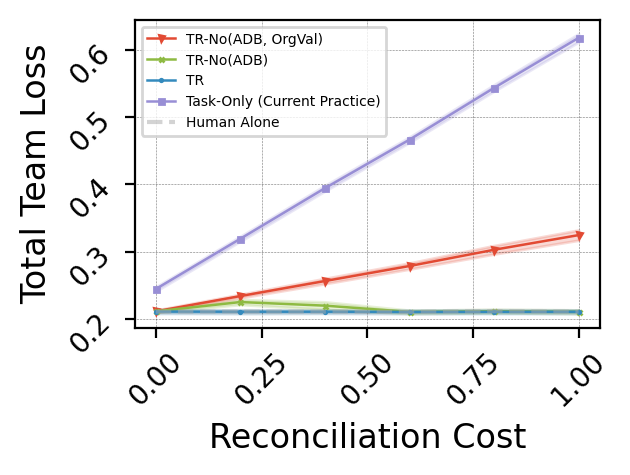
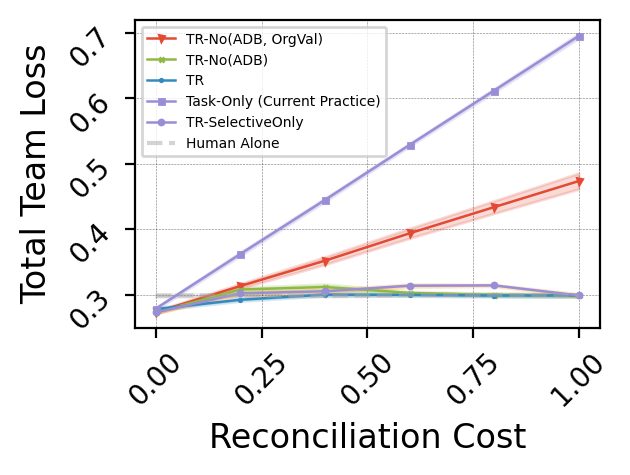
processing results file

Changed region(s): [[0.0905, 0.1179, 0.9349, 0.7368], [0.0905, 0.0589, 0.2111, 0.1768], [0.8746, 0.0589, 0.9349, 0.1179]]

diff --git a/src/run_analyses.py b/src/run_analyses.py
@@ -326,307 +326,31 @@ def make_results(dataset, whichtype, num_runs, costs, validation=False):
     return results_means, results_stderrs, results
 
 
-
 costs = [0.0, 0.2, 0.4, 0.6, 0.8, 1.0]
 num_runs = 5
-dataset = 'fico'
+datasets = ['heart_disease', 'fico', 'hr']
+names = ['biased', 'biased_dec_bias', 'offset_01']
 
-'''
-name = 'offset_01'
-if os.path.isfile(f'results/{dataset}/offset_01_rs.pkl'):
-    with open(f'results/{dataset}/offset_01_rs.pkl', 'rb') as f:
-        of1_rs = pickle.load(f)
-    with open(f'results/{dataset}/offset_01_means.pkl', 'rb') as f:
-        of1_means = pickle.load(f)
-    with open(f'results/{dataset}/offset_01_std.pkl', 'rb') as f:
-        of1_std = pickle.load(f)
-else:
-    of1_means, of1_std, of1_rs = make_results(dataset, name, num_runs, costs, False)
-    #pickle and write means, std, and rs to file
-    with open(f'results/{dataset}/offset_01_means.pkl', 'wb') as f:
-        pickle.dump(of1_means, f)
-    with open(f'results/{dataset}/offset_01_std.pkl', 'wb') as f:
-        pickle.dump(of1_std, f)
-    with open(f'results/{dataset}/offset_01_rs.pkl', 'wb') as f:
-        pickle.dump(of1_rs, f)
-
-name = 'offset_02'
-if os.path.isfile(f'results/{dataset}/offset_02_rs.pkl'):
-    with open(f'results/{dataset}/offset_02_rs.pkl', 'rb') as f:
-        of2_rs = pickle.load(f)
-    with open(f'results/{dataset}/offset_02_means.pkl', 'rb') as f:
-        of2_means = pickle.load(f)
-    with open(f'results/{dataset}/offset_02_std.pkl', 'rb') as f:
-        of2_std = pickle.load(f)
-else:
-    of2_means, of2_std, of2_rs = make_results(dataset, name, num_runs, costs, False)
-    #pickle and write means, std, and rs to file
-    with open(f'results/{dataset}/offset_02_means.pkl', 'wb') as f:
-        pickle.dump(of2_means, f)
-    with open(f'results/{dataset}/offset_02_std.pkl', 'wb') as f:
-        pickle.dump(of2_std, f)
-    with open(f'results/{dataset}/offset_02_rs.pkl', 'wb') as f:
-        pickle.dump(of2_rs, f)
-
-
-#val_r_means, val_r_stderrs, val_rs = make_results('heart_disease', name, num_runs, costs, True)
-#misr_means, misr_stderrs, misrs = make_results(dataset, name, num_runs, costs, False)
-#val_r_means, val_r_stderrs, val_rs = make_results('heart_disease', name, num_runs, costs, True)
-
-
-'''
-name = 'biased'
-if os.path.isfile(f'results/{dataset}/{name}_rs.pkl') and False:
-    with open(f'results/{dataset}/{name}_rs.pkl', 'rb') as f:
-        bia_rs = pickle.load(f)
-    with open(f'results/{dataset}/{name}_means.pkl', 'rb') as f:
-        bia_means = pickle.load(f)
-    with open(f'results/{dataset}/{name}_std.pkl', 'rb') as f:
-        bia_std = pickle.load(f)
-else:
-    bia_means, bia_std, bia_rs = make_results(dataset, name, num_runs, costs, validation=False)
-    #pickle and write means, std, and rs to file
-    with open(f'results/{dataset}/{name}_means.pkl', 'wb') as f:
-        pickle.dump(bia_means, f)
-    with open(f'results/{dataset}/{name}_std.pkl', 'wb') as f:
-        pickle.dump(bia_std, f)
-    with open(f'results/{dataset}/{name}_rs.pkl', 'wb') as f:
-        pickle.dump(bia_rs, f)
-'''
-name = 'offset_01'
-
-if os.path.isfile(f'results/{dataset}/val_offset_01_rs.pkl'):
-    with open(f'results/{dataset}/val_offset_01_rs.pkl', 'rb') as f:
-        val_of1_rs = pickle.load(f)
-    with open(f'results/{dataset}/val_offset_01_means.pkl', 'rb') as f:
-        val_of1_means = pickle.load(f)
-    with open(f'results/{dataset}/val_offset_01_std.pkl', 'rb') as f:
-        val_of1_std = pickle.load(f)
-else:
-    val_of1_means, val_of1_std, val_of1_rs = make_results(dataset, name, num_runs, costs, True)
-    #pickle and write means, std, and rs to file
-    with open(f'results/{dataset}/val_offset_01_means.pkl', 'wb') as f:
-        pickle.dump(val_of1_means, f)
-    with open(f'results/{dataset}/val_offset_01_std.pkl', 'wb') as f:
-        pickle.dump(val_of1_std, f)
-    with open(f'results/{dataset}/val_offset_01_rs.pkl', 'wb') as f:
-        pickle.dump(val_of1_rs, f)
-
-name = 'offset_02'
-if os.path.isfile(f'results/{dataset}/val_offset_02_rs.pkl'):
-    with open(f'results/{dataset}/val_offset_02_rs.pkl', 'rb') as f:
-        val_of2_rs = pickle.load(f)
-    with open(f'results/{dataset}/val_offset_02_means.pkl', 'rb') as f:
-        val_of2_means = pickle.load(f)
-    with open(f'results/{dataset}/val_offset_02_std.pkl', 'rb') as f:
-        val_of2_std = pickle.load(f)
-else:
-    val_of2_means, val_of2_std, val_of2_rs = make_results(dataset, name, num_runs, costs, True)
-    #pickle and write means, std, and rs to file
-    with open(f'results/{dataset}/val_offset_02_means.pkl', 'wb') as f:
-        pickle.dump(val_of2_means, f)
-    with open(f'results/{dataset}/val_offset_02_std.pkl', 'wb') as f:
-        pickle.dump(val_of2_std, f)
-    with open(f'results/{dataset}/val_offset_02_rs.pkl', 'wb') as f:
-        pickle.dump(val_of2_rs, f)
-
-
-#val_r_means, val_r_stderrs, val_rs = make_results('heart_disease', name, num_runs, costs, True)
-#misr_means, misr_stderrs, misrs = make_results(dataset, name, num_runs, costs, False)
-#val_r_means, val_r_stderrs, val_rs = make_results('heart_disease', name, num_runs, costs, True)
-
-
-'''
-name = 'biased'
-if os.path.isfile(f'results/{dataset}/val_biased_rs.pkl') and False:
-    with open(f'results/{dataset}/val_biased_rs.pkl', 'rb') as f:
-        val_bia_rs = pickle.load(f)
-    with open(f'results/{dataset}/val_biased_means.pkl', 'rb') as f:
-        val_bia_means = pickle.load(f)
-    with open(f'results/{dataset}/val_biased_std.pkl', 'rb') as f:
-        val_bia_std = pickle.load(f)
-else:
-    val_bia_means, val_bia_std, val_bia_rs = make_results(dataset, name, num_runs, costs, validation=True)
-    #pickle and write means, std, and rs to file
-    with open(f'results/{dataset}/val_biased_means.pkl', 'wb') as f:
-        pickle.dump(val_bia_means, f)
-    with open(f'results/{dataset}/val_biased_std.pkl', 'wb') as f:
-        pickle.dump(val_bia_std, f)
-    with open(f'results/{dataset}/val_biased_rs.pkl', 'wb') as f:
-        pickle.dump(val_bia_rs, f)
-
-
-def make_TL_v_cost_plot(results_means, results_stderrs, name):
-    fig = plt.figure(figsize=(3, 2), dpi=200)
-    color_dict = {'TR': '#348ABD', 'HYRS': '#E24A33', 'BRS':'#988ED5', 'Human': 'darkgray', 'HYRSRecon': '#8EBA42', 'BRSselect': '#FF7F00'}  #75c361
-    plt.plot(results_means.index[0:6], results_means['hyrs_norecon_objective'].iloc[0:6], marker = 'v', c=color_dict['HYRS'], label = 'TR-No(ADB, OrgVal)', markersize=1.8, linewidth=0.9)
-    plt.plot(results_means.index[0:6], results_means['hyrs_team_objective'].iloc[0:6], marker = 'x', c=color_dict['HYRSRecon'], label = 'TR-No(ADB)', markersize=1.8, linewidth=0.9)
-    plt.plot(results_means.index[0:6], results_means['tr_team_w_reset_objective'].iloc[0:6], marker = '.', c=color_dict['TR'], label='TR', markersize=1.8, linewidth=0.9)
-    plt.plot(results_means.index[0:6], results_means['brs_team_objective'].iloc[0:6], marker = 's', c=color_dict['BRS'], label='Task-Only (Current Practice)', markersize=1.8, linewidth=0.9)
-    plt.plot(results_means.index[0:6], results_means['brs_team_w_reset_objective'].iloc[0:6], marker = 'o', c=color_dict['BRS'], label='TR-SelectiveOnly', markersize=1.8, linewidth=0.9)
-    
-    plt.plot(results_means.index[0:6], results_means['human_decision_loss'].iloc[0:6], c = color_dict['Human'], markersize=1, label='Human Alone', ls='--', alpha=0.5)
-    
-    plt.fill_between(results_means.index[0:6], 
-                results_means['human_decision_loss'].iloc[0:6]-(results_stderrs['human_decision_loss'].iloc[0:6]),
-                results_means['human_decision_loss'].iloc[0:6]+(results_stderrs['human_decision_loss'].iloc[0:6]) ,
-                color=color_dict['Human'], alpha=0.2)
-    plt.fill_between(results_means.index[0:6], 
-                results_means['hyrs_team_objective'].iloc[0:6]-(results_stderrs['hyrs_team_objective'].iloc[0:6]),
-                results_means['hyrs_team_objective'].iloc[0:6]+(results_stderrs['hyrs_team_objective'].iloc[0:6]) ,
-                color=color_dict['HYRSRecon'], alpha=0.2)
-    
-    plt.fill_between(results_means.index[0:6], 
-                results_means['hyrs_norecon_objective'].iloc[0:6]-(results_stderrs['hyrs_norecon_objective'].iloc[0:6]),
-                results_means['hyrs_norecon_objective'].iloc[0:6]+(results_stderrs['hyrs_norecon_objective'].iloc[0:6]) ,
-                color=color_dict['HYRS'], alpha=0.2)
-    plt.fill_between(results_means.index[0:6], 
-                results_means['brs_team_objective'].iloc[0:6]-(results_stderrs['brs_team_objective'].iloc[0:6]),
-                results_means['brs_team_objective'].iloc[0:6]+(results_stderrs['brs_team_objective'].iloc[0:6]) ,
-                color=color_dict['BRS'], alpha=0.2)
-    plt.fill_between(results_means.index[0:6], 
-                results_means['tr_team_w_reset_objective'].iloc[0:6]-(results_stderrs['tr_team_w_reset_objective'].iloc[0:6]),
-                results_means['tr_team_w_reset_objective'].iloc[0:6]+(results_stderrs['tr_team_w_reset_objective'].iloc[0:6]),
-                color=color_dict['TR'], alpha=0.2)
-    plt.fill_between(results_means.iloc[0:6].index,
-                     results_means['brs_team_w_reset_objective'].iloc[0:6]-(results_stderrs['brs_team_w_reset_objective'].iloc[0:6]),
-                results_means['brs_team_w_reset_objective'].iloc[0:6]+(results_stderrs['brs_team_w_reset_objective'].iloc[0:6]),
-                color=color_dict['BRSselect'], alpha=0.2)
-   
-    plt.xlabel('Reconciliation Cost', fontsize=12)
-    plt.ylabel('Total Team Loss', fontsize=12)
-    plt.tick_params(labelrotation=45, labelsize=10)
-    #plt.title('{} Setting'.format(setting), fontsize=15)
-    #plt.title('Income Prediction (Adult Dataset)', fontsize=15)
-    plt.legend(prop={'size': 5})
-    plt.grid('on', linestyle='dotted', linewidth=0.2, color='black')
-
-    fig.savefig(f'results/{dataset}/plots/TL_{dataset}_{name}.png', bbox_inches='tight')
-    #plt.show()
-
-    #plt.clf()
-
-
-def make_contradictions_v_decisionloss_plot(results_means, results_stderrs, name):
-    fig = plt.figure(figsize=(3, 2), dpi=400)
-    color_dict = {'TR': '#348ABD', 'HYRS': '#E24A33', 'BRS':'#988ED5', 'Human': 'darkgray', 'HYRSRecon': '#8EBA42'}
-    plt.plot(results_means['brs_model_contradictions'], results_means['brs_team_decision_loss'].iloc[0:6], marker = 'v', c=color_dict['BRS'], label = 'Task-Only (Current Practice)', markersize=1.8, linewidth=0.9)
-    #plt.plot(results_means['hyrs_model_contradictions'], results_means['hyrs_team_objective'].iloc[0:6], marker = 'x', c=color_dict['HYRSRecon'], label = 'TR-No(ADB)', markersize=1.8, linewidth=0.9)
-    plt.plot(results_means['tr_model_w_reset_contradictions'], results_means['tr_team_w_reset_decision_loss'].iloc[0:6], marker = '.', c=color_dict['TR'], label='TR', markersize=1.8, linewidth=0.9)
-    
-    
-    
-    plt.plot([0,0,0,0,0, 0], results_means['human_decision_loss'].iloc[0:6], c = color_dict['Human'], markersize=1, label='Human Alone', ls='--', alpha=0.5)
-    
-    for cost in results_stderrs.index:
-        plt.fill_between(np.linspace(results_means.loc[cost, 'brs_model_contradictions'] - results_stderrs.loc[cost, 'brs_model_contradictions'], 
-                                     results_means.loc[cost, 'brs_model_contradictions'] + results_stderrs.loc[cost, 'brs_model_contradictions'], 50), 
-                    results_means.loc[cost, 'brs_team_decision_loss']-(results_stderrs.loc[cost, 'brs_team_decision_loss']),
-                    results_means.loc[cost, 'brs_team_decision_loss']+(results_stderrs.loc[cost, 'brs_team_decision_loss']),
-                    color=color_dict['BRS'], alpha=0.2)
+for dataset in datasets:
+    for name in names:
+        print(f'running for {dataset} {name}')
+        means, std, rs = make_results(dataset, name, num_runs, costs, validation=False)
+        #pickle and write means, std, and rs to file
+        with open(f'results/{dataset}/{name}_means.pkl', 'wb') as f:
+            pickle.dump(means, f)
+        with open(f'results/{dataset}/{name}_std.pkl', 'wb') as f:
+            pickle.dump(std, f)
+        with open(f'results/{dataset}/{name}_rs.pkl', 'wb') as f:
+            pickle.dump(rs, f)
         
-        #plt.text(results_means.loc[cost, 'tr_model_w_reset_contradictions'], results_means.loc[cost, 'tr_team_w_reset_decision_loss'], f'cost = {str(cost)}', fontsize=4)
+        print(f'running for val {dataset} {name}')
+        val_means, val_std, val_rs = make_results(dataset, name, num_runs, costs, validation=True)
+        #pickle and write means, std, and rs to file
+        with open(f'results/{dataset}/val_{name}_means.pkl', 'wb') as f:
+            pickle.dump(val_means, f)
+        with open(f'results/{dataset}/val_{name}_std.pkl', 'wb') as f:
+            pickle.dump(val_std, f)
+        with open(f'results/{dataset}/val_{name}_rs.pkl', 'wb') as f:
+            pickle.dump(val_rs, f)
         
-        plt.fill_between(np.linspace(results_means.loc[cost, 'tr_model_w_reset_contradictions'] - results_stderrs.loc[cost, 'tr_model_w_reset_contradictions'], 
-                                    results_means.loc[cost, 'tr_model_w_reset_contradictions'] + results_stderrs.loc[cost, 'tr_model_w_reset_contradictions'], 50), 
-                    results_means.loc[cost, 'tr_team_w_reset_decision_loss']-(results_stderrs.loc[cost, 'tr_team_w_reset_decision_loss']),
-                    results_means.loc[cost, 'tr_team_w_reset_decision_loss']+(results_stderrs.loc[cost, 'tr_team_w_reset_decision_loss']),
-                    color=color_dict['TR'], alpha=0.2)
-   
-    plt.xlabel('Contradictions', fontsize=12)
-    plt.ylabel('Team Decision Loss', fontsize=12)
-    plt.tick_params(labelrotation=45, labelsize=10)
-    #plt.title('{} Setting'.format(setting), fontsize=15)
-    plt.legend(prop={'size': 5})
-    plt.grid('on', linestyle='dotted', linewidth=0.2, color='black')
-
-    fig.savefig(f'results/{dataset}/plots/TDL_{dataset}_{name}.png', bbox_inches='tight', format='svg', dpi=1200)
-    #plt.show()
-
-    #plt.clf()
-
-
-
-def robust_rules(rs, val_rs):
-    new_rs = deepcopy(rs)
-    for cost in rs.index:
-        for column in rs.columns:
-            new_rs.loc[cost, column] = deepcopy(rs.loc[cost, column])
-        for i in range(len(val_rs['tr_team_w_reset_objective'][cost])):
-            x_train, y_train, x_train_non_binarized, x_learning_non_binarized, x_learning, y_learning, x_human_train, y_human_train, x_val, y_val, x_test, y_test, x_val_non_binarized, x_test_non_binarized= load_datasets(dataset, i)
-            curr_val_objective = val_rs['tr_team_w_reset_objective'][cost][i]
-            if val_rs['hyrs_team_objective'][cost][i] < curr_val_objective:
-                new_rs['tr_model_w_reset_contradictions'][cost][i] = rs['hyrs_model_contradictions'][cost][i].copy()
-                new_rs['tr_team_w_reset_decision_loss'][cost][i] = rs['hyrs_team_decision_loss'][cost][i].copy()
-                new_rs['tr_team_w_reset_objective'][cost][i] = new_rs['tr_team_w_reset_decision_loss'][cost][i] + cost*new_rs['tr_model_w_reset_contradictions'][cost][i]/len(y_test)
-                print(f"cost: {cost}, i: {i}, replacing actual of {rs['tr_team_w_reset_objective'][cost][i]} with new of {new_rs['tr_team_w_reset_objective'][cost][i]}")
-                curr_val_objective = val_rs['hyrs_team_objective'][cost][i]
-            if val_rs['brs_team_objective'][cost][i] < curr_val_objective:
-                new_rs['tr_model_w_reset_contradictions'][cost][i] = rs['brs_model_contradictions'][cost][i].copy()
-                new_rs['tr_team_w_reset_decision_loss'][cost][i] = rs['brs_team_decision_loss'][cost][i].copy()
-                new_rs['tr_team_w_reset_objective'][cost][i] = new_rs['tr_team_w_reset_decision_loss'][cost][i] + cost*new_rs['tr_model_w_reset_contradictions'][cost][i]/len(y_test)
-                print(f"cost: {cost}, i: {i}, replacing actual of {rs['tr_team_w_reset_objective'][cost][i]} with new of {new_rs['tr_team_w_reset_objective'][cost][i]}")
-                curr_val_objective = val_rs['brs_team_objective'][cost][i]
-            if val_rs['brs_team_objective_w_reset'][cost][i] < curr_val_objective:
-                new_rs['tr_model_w_reset_contradictions'][cost][i] = rs['brs_model_w_reset_contradictions'][cost][i].copy()
-                new_rs['tr_team_w_reset_decision_loss'][cost][i] = rs['brs_team_w_reset_decision_loss'][cost][i].copy()
-                new_rs['tr_team_w_reset_objective'][cost][i] = new_rs['tr_team_w_reset_decision_loss'][cost][i] + cost*new_rs['tr_model_w_reset_contradictions'][cost][i]/len(y_test)
-                print(f"cost: {cost}, i: {i}, replacing actual of {rs['tr_team_w_reset_objective'][cost][i]} with new of {new_rs['tr_team_w_reset_objective'][cost][i]}")
-                curr_val_objective = val_rs['brs_team_objective_w_reset'][cost][i]
-                
-    new_results_means = new_rs.apply(lambda x: x.apply(lambda y: mean(y)))
-    new_results_stderrs = new_rs.apply(lambda x: x.apply(lambda y: np.std(y)/np.sqrt(len(y))))
-    return new_results_means, new_results_stderrs, new_rs
-
-    
-def cost_validation(rs, val_rs):
-    new_rs = deepcopy(rs)
-    for cost in rs.index:
-        for column in rs.columns:
-            new_rs.loc[cost, column] = deepcopy(rs.loc[cost, column])
-        for i in range(len(val_rs['tr_team_w_reset_objective'][cost])):
-            x_train, y_train, x_train_non_binarized, x_learning_non_binarized, x_learning, y_learning, x_human_train, y_human_train, x_val, y_val, x_test, y_test, x_val_non_binarized, x_test_non_binarized= load_datasets(dataset, i)
-            curr_val_objective = val_rs['tr_team_w_reset_objective'][cost][i]
-            for alt_cost in rs.index:
-                if alt_cost == cost:
-                    continue
-                alt_val_objective = val_rs['tr_team_w_reset_decision_loss'][alt_cost][i] + cost*(val_rs['tr_model_w_reset_contradictions'][alt_cost][i])/len(y_val)
-                if alt_val_objective < curr_val_objective:
-                    new_rs['tr_model_w_reset_contradictions'][cost][i] = rs['tr_model_w_reset_contradictions'][alt_cost][i].copy()
-                    new_rs['tr_team_w_reset_decision_loss'][cost][i] = rs['tr_team_w_reset_decision_loss'][alt_cost][i].copy()
-                    new_rs['tr_team_w_reset_objective'][cost][i] = new_rs['tr_team_w_reset_decision_loss'][alt_cost][i] + cost*new_rs['tr_model_w_reset_contradictions'][alt_cost][i]/len(y_test)
-                    print(f"cost: {cost}, new cost: {alt_cost}, i: {i}, replacing actual of {rs['tr_team_w_reset_objective'][cost][i]} with new of {new_rs['tr_team_w_reset_objective'][cost][i]}")
-                    curr_val_objective = alt_val_objective
-    new_results_means = new_rs.apply(lambda x: x.apply(lambda y: mean(y)))
-    new_results_stderrs = new_rs.apply(lambda x: x.apply(lambda y: np.std(y)/np.sqrt(len(y))))
-
-    return new_results_means, new_results_stderrs, new_rs
-
-
-
-
-#cval_of1_means, cval_of1_stderss, cval_of1_rs = cost_validation(of1_rs, val_of1_rs)        
-#cval_of2_means, cval_of2_stderss, cval_of2_rs = cost_validation(of2_rs, val_of2_rs)   
-cval_bia_means, cval_bia_stderss, cval_bia_rs = cost_validation(bia_rs, val_bia_rs)     
-
-
-#rval_of1_means, rval_of1_stderss, rval_of1_rs = robust_rules(of1_rs, val_of1_rs)        
-#rval_of2_means, rval_of2_stderss, rval_of1_rs = robust_rules(of2_rs, val_of2_rs)     
-rval_bia_means, rval_bia_stderss, rval_bia_rs = robust_rules(bia_rs, val_bia_rs)    
-
-#ccval_of1_means, ccval_of1_stderss, ccval_of1_rs = cost_validation(val_of1_rs, val_of1_rs)        
-#ccval_of2_means, ccval_of2_stderss, ccval_of2_rs = cost_validation(val_of2_rs, val_of2_rs)   
-ccval_bia_means, ccval_bia_stderss, ccval_bia_rs = cost_validation(val_bia_rs, val_bia_rs)  
-
-
-
-#rcval_of1_means, rcval_of1_stderss, rcval_of1_rs = robust_rules(cval_of1_rs, ccval_of1_rs)        
-#rcval_of2_means, rcval_of2_stderss, rcval_of1_rs = robust_rules(cval_of2_rs, ccval_of2_rs)     
-rcval_bia_means, rcval_bia_stderss, rcval_bia_rs = robust_rules(cval_bia_rs, ccval_bia_rs)     
-
-    
-
-    
-
-print('pause')
 
